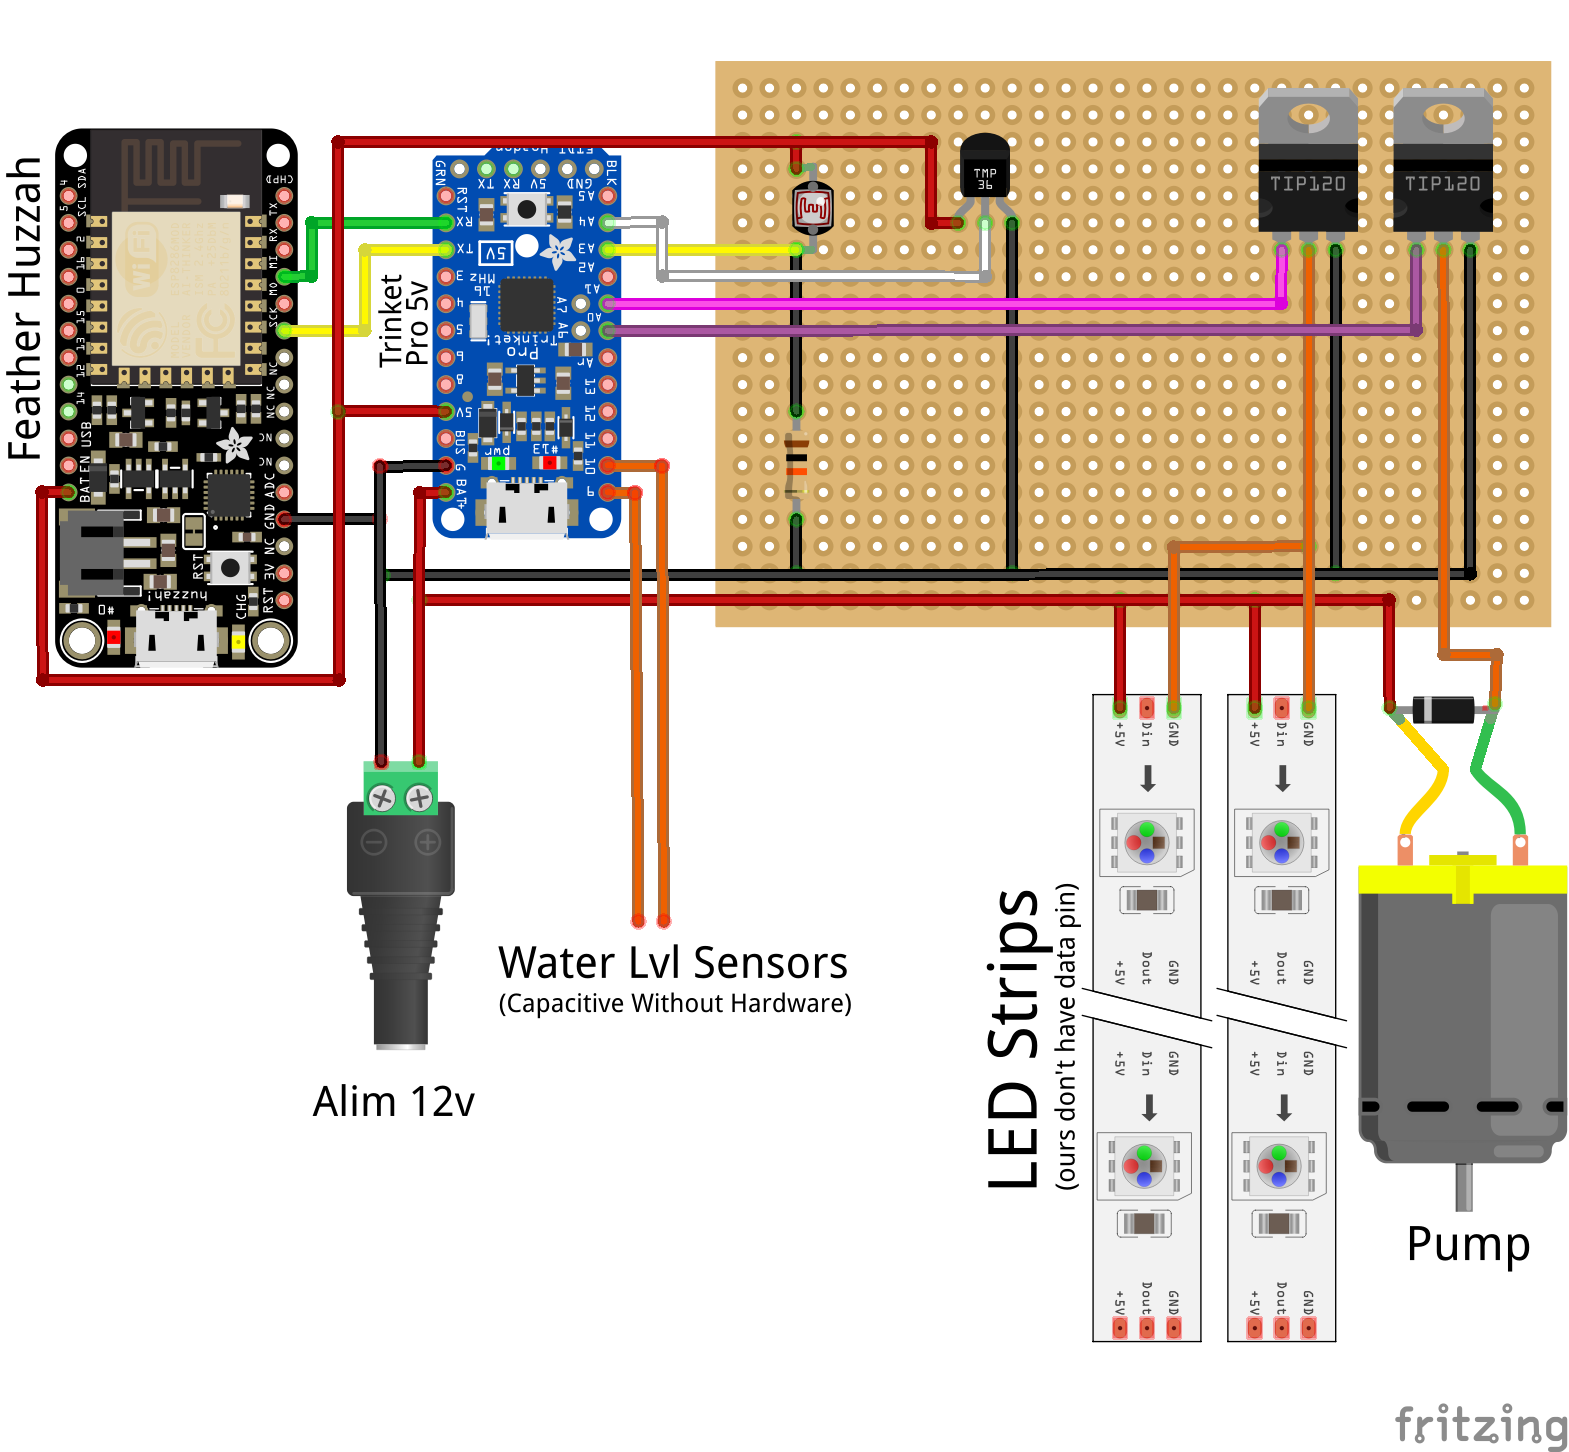
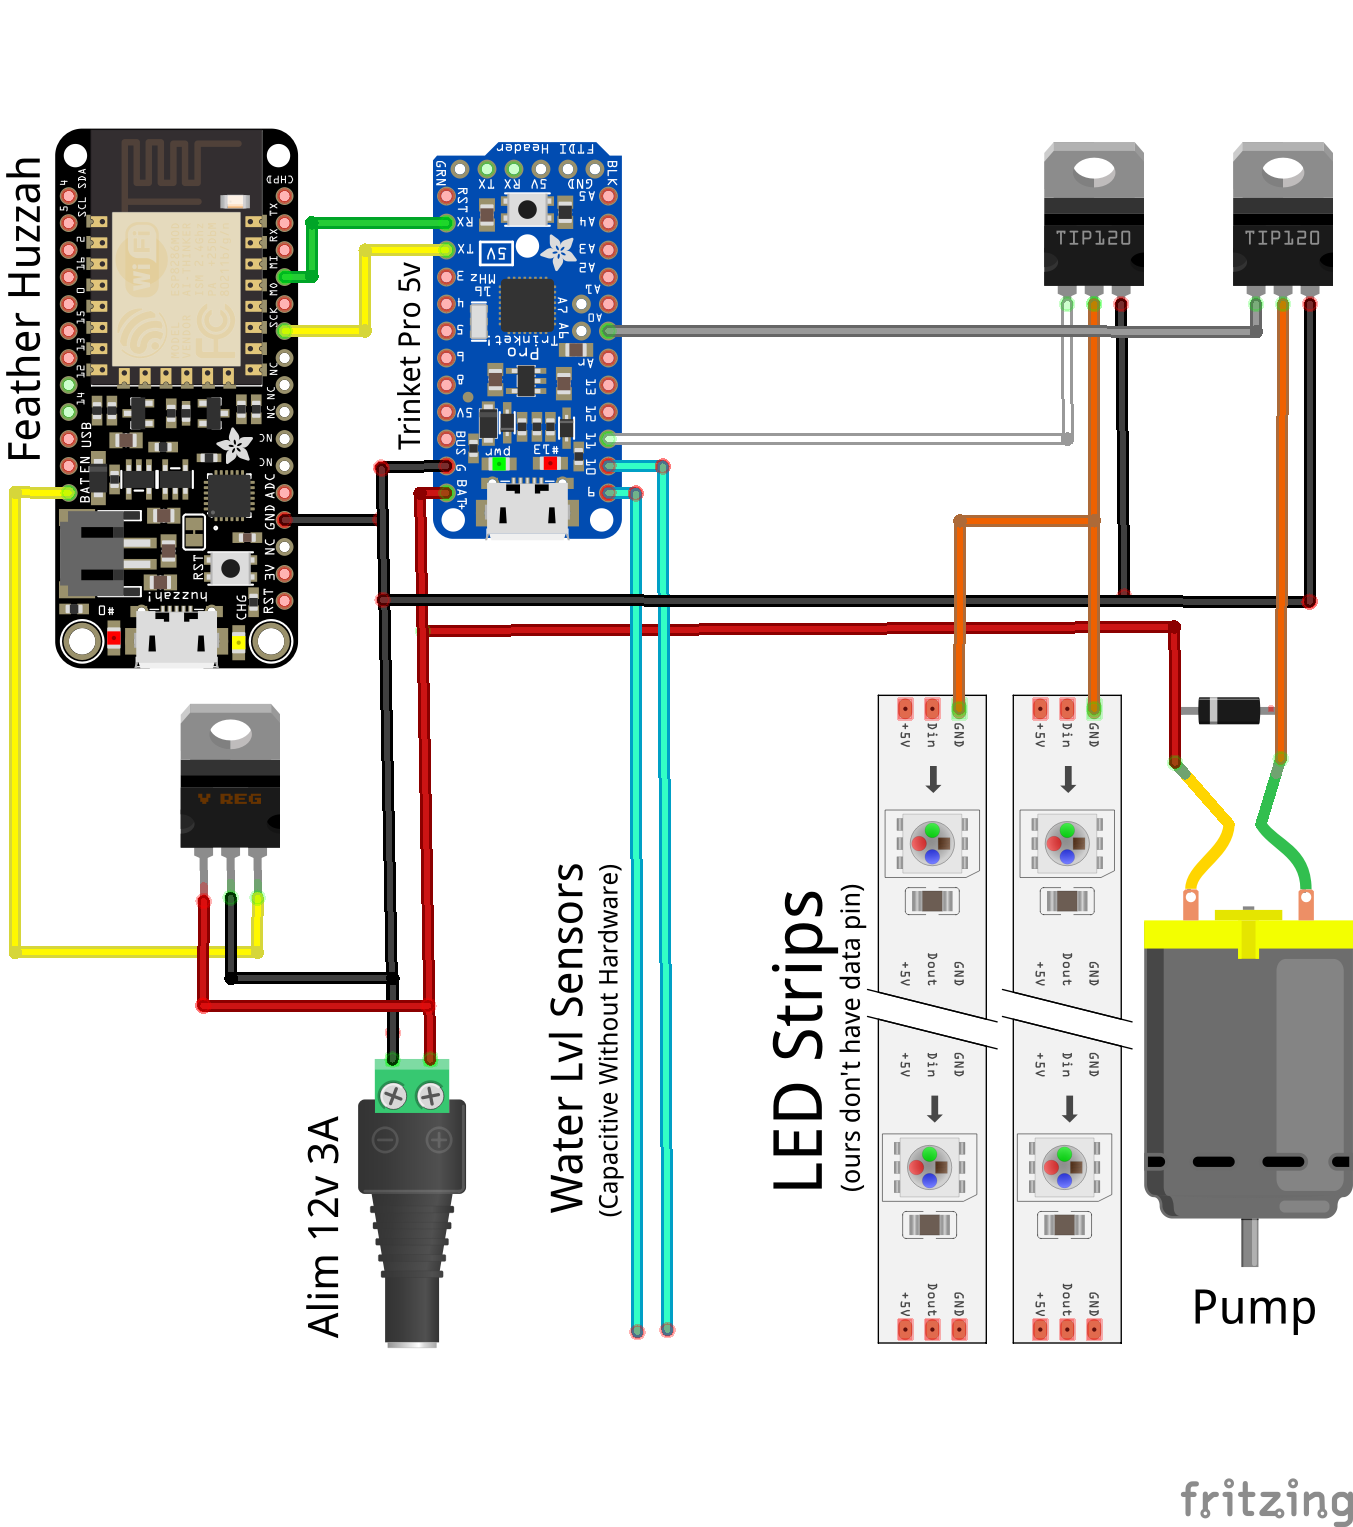
update montage and readme

diff --git a/README.md b/README.md
@@ -1,9 +1,12 @@
-# makers'potow
+# makers'pot
 
 ### Software
-Code is split between feather huzzah and trinket boards and you'll need to unlink RX/TX from both to upload code.
-For Trinket, [SimpleTimer](https://playground.arduino.cc/Code/SimpleTimer#Download) library is required.  
+Code is split between [feather huzzah with ESP8266](https://learn.adafruit.com/adafruit-io-basics-esp8266-arduino?view=all) and [trinket pro 5v](https://learn.adafruit.com/introducing-pro-trinket?view=all) boards.
+[SimpleTimer](https://playground.arduino.cc/Code/SimpleTimer#Download) library is required.  
 Feather Huzzah's internet and adafruit.io connections have to be configured in `code_feather/config.h`.
 
 ### Circuit
 ![](montage.png)
+
+An L7805CV is used as voltage regulator for powering the Feather Huzzah.
+![](https://img4.hostingpics.net/pics/157328regulateur5v.png)
